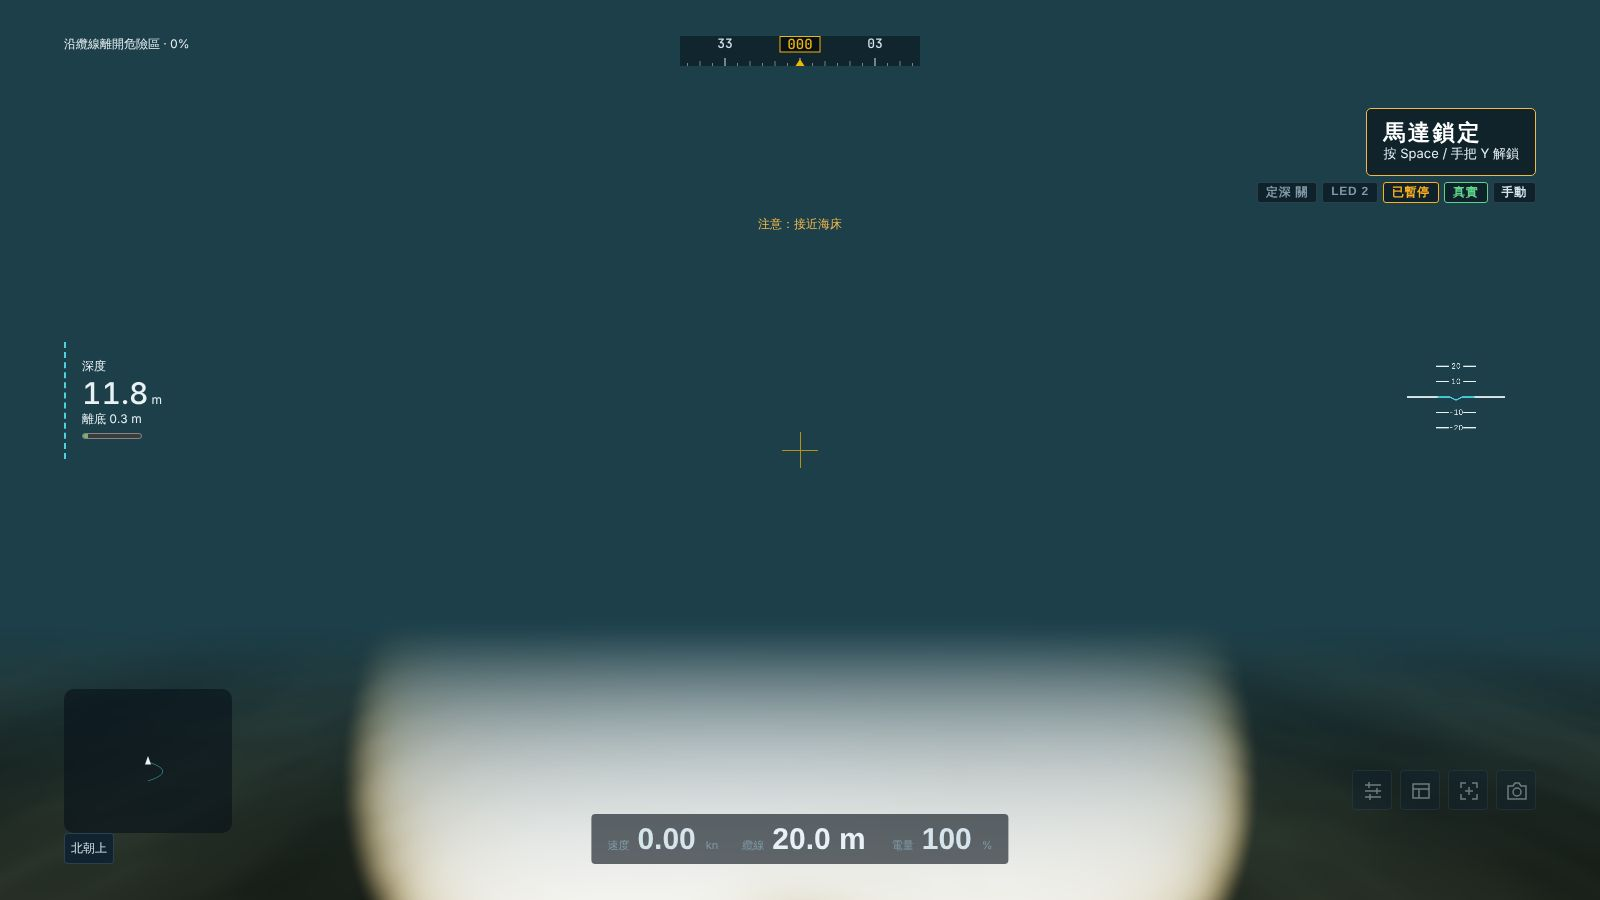
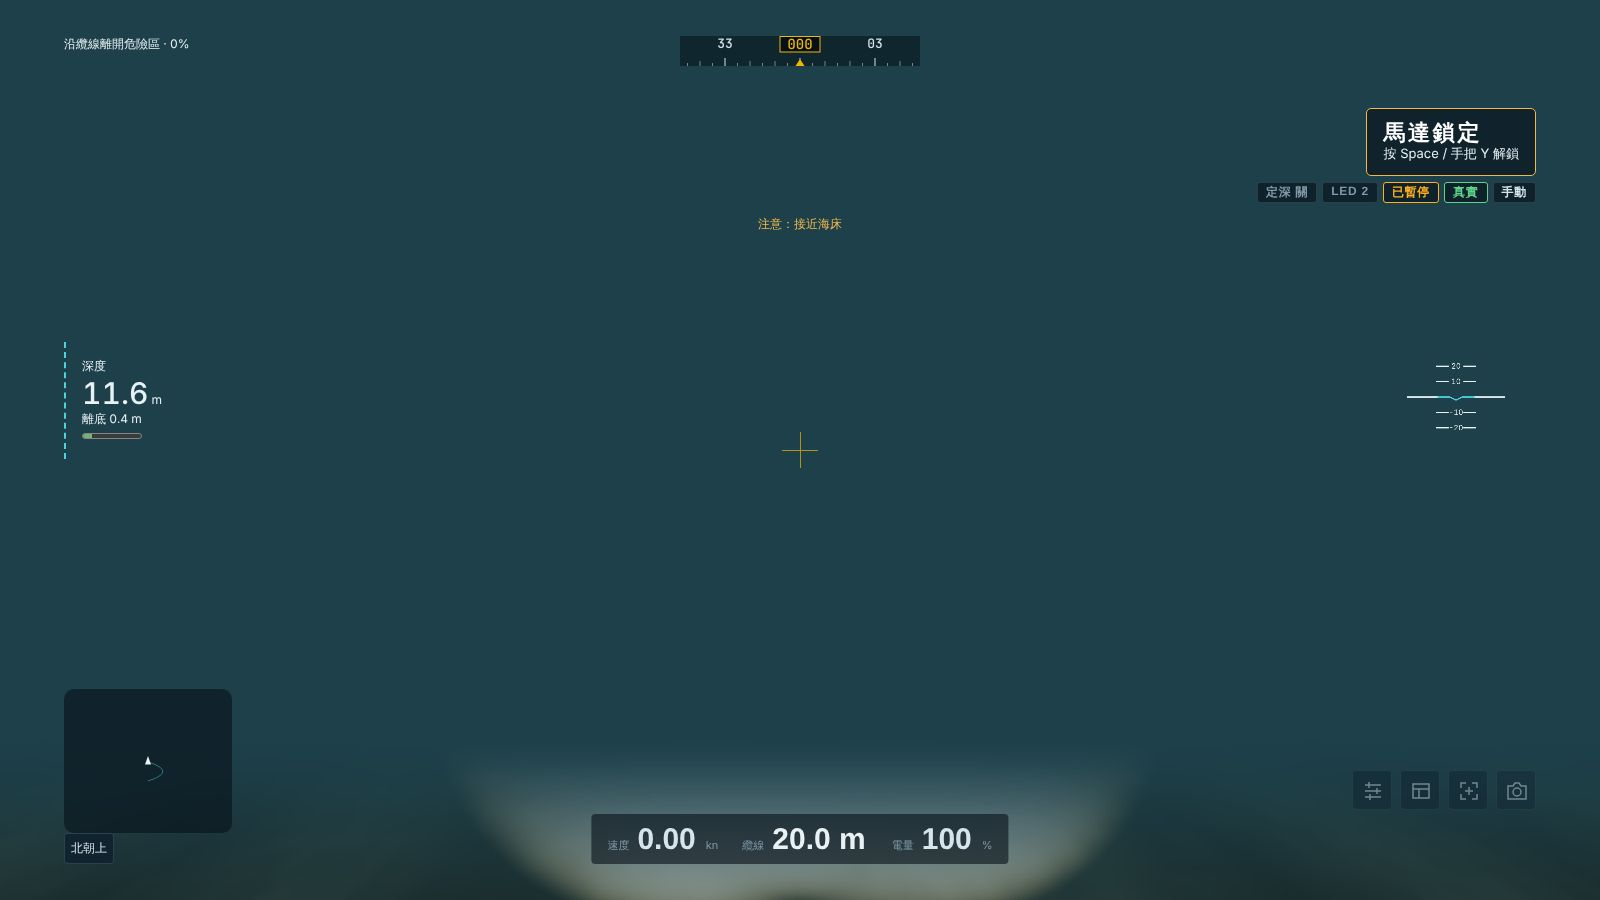
Docs: silt screenshots at the 0.45 m incident start
Claude-Session: https://claude.ai/code/session_01N551KvQYSQDapLw9TFaBhA

Changed region(s): [[0.125, 0.7156, 1.0, 1.0], [0.0, 0.7778, 0.0625, 0.9333]]

diff --git a/docs/reference/silt-validation.md b/docs/reference/silt-validation.md
@@ -125,6 +125,18 @@
 ±1 ms。每 tick 預算 10 ms，平均仍在即時範圍內。`World.step` 加上一台載具的噴流來源約 0.24 ms／tick
 （向量化後來源本身 0.03 ms）。`tools/benchmark_room.py` 新增 `--scenario` 與 `--near-bed` 以重跑。
 
+## 截圖（`docs/design/silt/`，1600×900）
+
+`incident_silt` 起始姿態全力上升 0.8 s、再漂 6 s 後暫停擷取（main 以同樣方式驅動舊模型）。
+
+| 檔案 | 內容 |
+|---|---|
+| `before_onboard.jpg` | main：舊模型 silt 0.26，線性霧，基本能見度 1 m × (1 − 0.75 silt) |
+| `before_third_person.jpg` | main：同一霧套用到整個場景，看不到雲團 |
+| `after_onboard_lamps_full.jpg` | 本分支：鏡頭處 75 mg/L、能見度 0.12 m，燈全開，背向散射使畫面泛灰 |
+| `after_onboard_lamps_off.jpg` | 同上關燈：暗綠全遮蔽 |
+| `after_third_person.jpg` | 本分支：鏡頭在雲外（1.6 mg/L），看得到包住載具的泥雲，燈錐被吃掉 |
+
 ## 已知限制與未驗證
 
 - 槳徑 0.09 m、Cf、侵蝕係數 M、各底質門檻與顆粒比例、擴散係數、對數律粗糙度、k = 0.5 m²/g、近底濁層
@@ -132,7 +144,7 @@
 - 噴流與底床撞擊後的徑向壁面噴流沒有另外的衰減模型；雲團上升高度 `min(2, 0.3 + 0.6 U)` m 是假設。
 - 沒有絮凝、沒有濃懸浮液的重力流、沒有潮汐對近底濁層的調變。
 - 燈光背向散射的強度（`backscatterPerMgL`）只是視覺值，沒有影像對比量測。
-- 第三人稱截圖用固定攝影機：載具停在底床上時，現有追蹤／環繞攝影機的避障射線會打到自己的機殼而貼近
+- 第三人稱截圖用固定攝影機：載具貼近底床時，現有追蹤／環繞攝影機的避障射線會打到自己的機殼而貼近
   機身（main 上一樣），不屬本分支範圍。
 
 ## 重現指令
